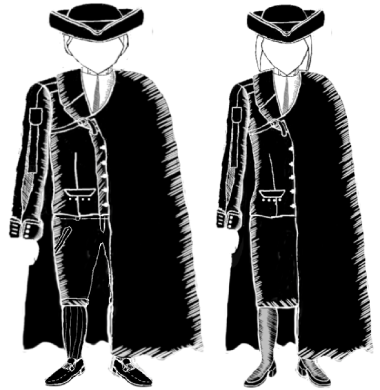
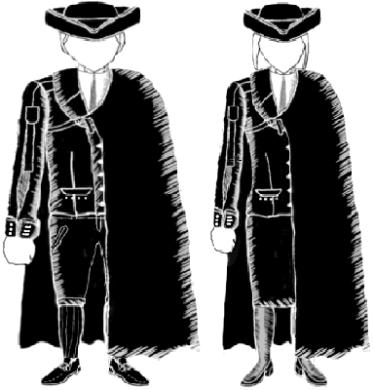
vertical height & new png

Changed region(s): [[0.0, 0.0, 0.5308, 1.0], [0.5603, 0.0, 1.0, 1.0], [0.5898, 0.6462, 0.6193, 0.9231]]

diff --git a/css/centuria.css b/css/centuria.css
@@ -177,6 +177,8 @@ header.masthead {
 	background-position: center center;
 	background-size: cover;
 	/* height: 100vh; */
+	min-height: 100vh;
+	height: 50rem;
 	width: 100vw;
 }
 
@@ -761,7 +763,7 @@ ul.social-buttons li a:hover {
 
 .interactive-image {
 	margin: auto;
-	width: 380px;
+	width: 373px;
 	height: 390px;
 	background-image: url('/img/traje/traje-tricornio-mf.png');
 	background-size: 100%;
